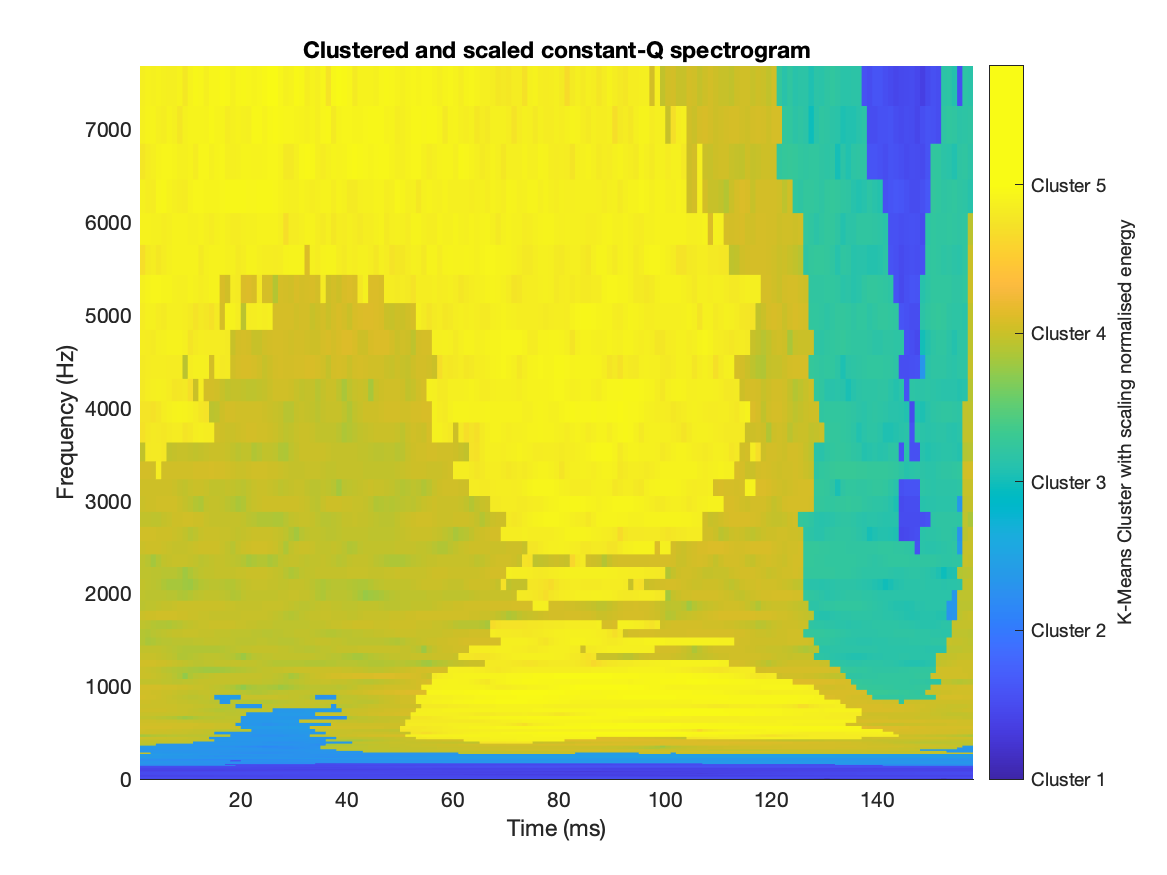
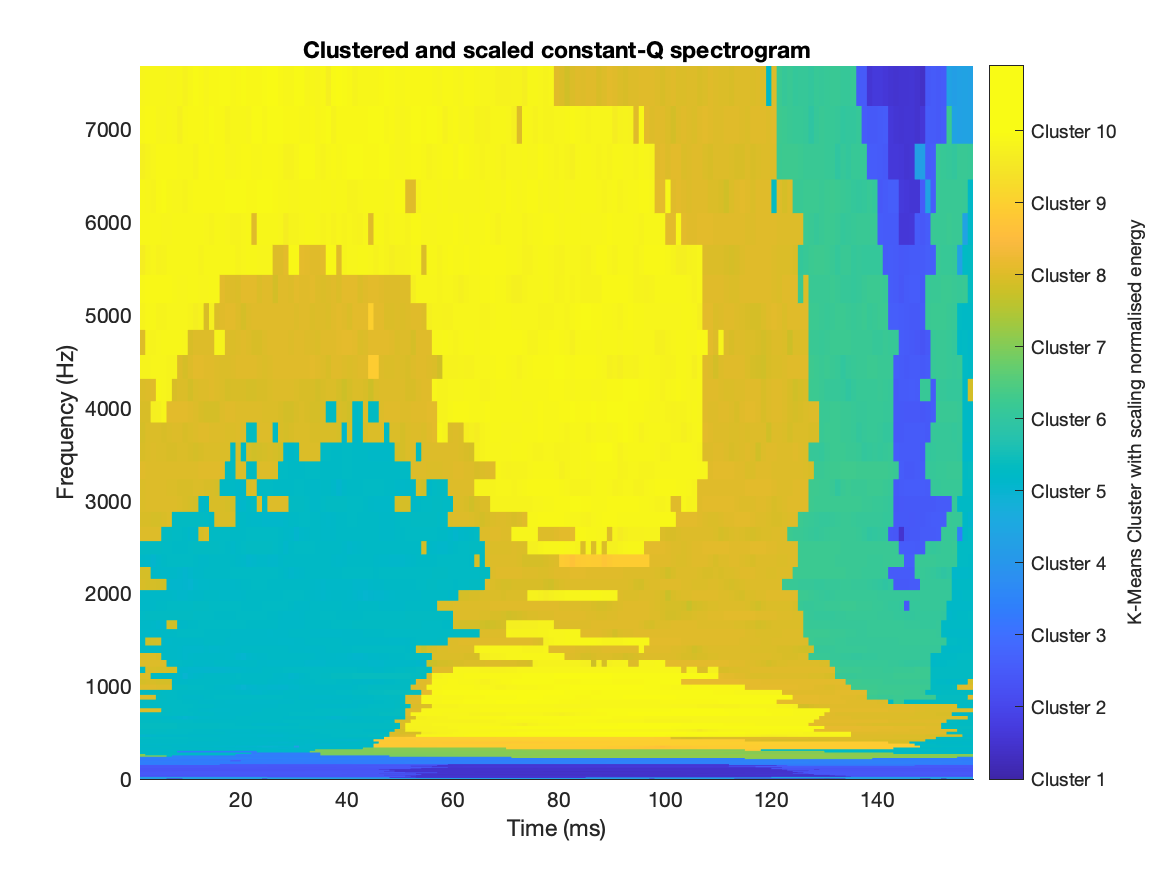
Better visuals for rationale

diff --git a/rationale-TIMIT_CQTs/matlab/group_CQT.m b/rationale-TIMIT_CQTs/matlab/group_CQT.m
@@ -71,7 +71,7 @@ title("Mean constant-Q spectrogram");
 saveas(gcf, strcat(out, "group_mean.png"));
 
 %% k-means
-X_k_clusters = 5;
+X_k_clusters = 10;
 X_k_m = reshape(X, [size(X, 1) * size(X, 2), size(X, 3)]);
 X_k_m = log(abs(X_k_m) .^ 2);
 [X_k_idx, X_k_C] = kmeans(X_k_m, X_k_clusters, 'MaxIter', 1000);
@@ -162,3 +162,62 @@ end
 for i = 1:size(X_k_cluster_spectral, 1)
     [X_k_cluster_m_ttest_h(i), X_k_cluster_m_ttest_p(i), X_k_cluster_m_ttest_ci(i,:), X_k_cluster_m_ttest_stats(i,:)] = ttest(X_k_cluster_spectral_m(i, :), 0, 'Alpha', (0.05 / size(X_k_cluster_spectral, 1)));
 end
+
+%% time plots
+da = X_k_cluster_spectral_m(:, 1:3);
+%das(:, 1) = da(:, 1);
+%das(:, 2) = da(:, 2);
+%das(:, 3) = da(:, 3);
+das(:, 1) = da(randperm(size(da, 1)), 1);
+das(:, 2) = da(randperm(size(da, 1)), 2);
+das(:, 3) = da(randperm(size(da, 1)), 3);
+
+figure; hold on;
+c = polyfit([1:size(das, 1)]', das(:, 1), 9);
+y_est = polyval(c, 1:size(das, 1));
+e1 = (sum((y_est' - das(:, 1)) .^ 2) + sum((y_est' - das(:, 2)) .^ 2) + sum((y_est' - das(:, 3)) .^ 2)) ./ size(das, 1);
+e1t = (((y_est' - das(:, 1)) .^ 2) + ((y_est' - das(:, 2)) .^ 2) + ((y_est' - das(:, 3)) .^ 2)) ./ size(das, 1);
+%plot(1:size(das, 1), y_est, 'black-');
+errorbar(1:size(das, 1), y_est, e1t);
+plot(1:size(das, 1), das(:, 1), 'r*');
+plot(1:size(das, 1), das(:, 2), 'b*');
+plot(1:size(das, 1), das(:, 3), 'm*');
+xlabel("Time-frequency clusters");
+ylabel("Spectral energy");
+legend("Regression fit", "Speaker_1", "Speaker_2 (novel)", "Speaker_3 (novel)");
+title("Overfit model (\epsilon = " + string(e1) + ")");
+axis([1 10 -40 -5]);
+
+
+figure; hold on;
+c2 = polyfit([1:size(das, 1)]', das(:, 1), 1);
+y_est2 = polyval(c2, 1:size(das, 1));
+e2 = (sum((y_est2' - das(:, 1)) .^ 2) + sum((y_est2' - das(:, 2)) .^ 2) + sum((y_est2' - das(:, 3)) .^ 2)) ./ size(das, 1);
+e2t = (((y_est2' - das(:, 1)) .^ 2) + ((y_est2' - das(:, 2)) .^ 2) + ((y_est2' - das(:, 3)) .^ 2)) ./ size(das, 1);
+%plot(1:size(das, 1), y_est2, 'black-');
+errorbar(1:size(das, 1), y_est2, e2t);
+plot(1:size(das, 1), das(:, 1), 'r*');
+plot(1:size(das, 1), das(:, 2), 'b*');
+plot(1:size(das, 1), das(:, 3), 'm*');
+xlabel("Time-frequency clusters");
+ylabel("Spectral energy");
+legend("Regression fit", "Speaker_1", "Speaker_2 (novel)", "Speaker_3 (novel)");
+title("Simple model (\epsilon = " + string(e2) + ")");
+axis([1 10 -40 -5]);
+
+figure; hold on;
+b = (1:size(das, 1))' ./ (1:size(das, 1))';
+betas = b \ das(:, 1);
+y_est3 = (b * betas)';
+e3i = das(:, 1) - y_est3';
+e3 = (sum((y_est3' - das(:, 1)) .^ 2) + sum((y_est3' - das(:, 2)) .^ 2) + sum((y_est3' - das(:, 3)) .^ 2)) ./ size(das, 1);
+e3t = (((y_est3' - das(:, 1)) .^ 2) + ((y_est3' - das(:, 2)) .^ 2) + ((y_est3' - das(:, 3)) .^ 2)) ./ size(das, 1);
+errorbar(1:size(das, 1), y_est3, e3t);
+plot(1:size(das, 1), das(:, 1), 'r*');
+plot(1:size(das, 1), das(:, 2), 'b*');
+plot(1:size(das, 1), das(:, 3), 'm*');
+xlabel("Time-frequency clusters");
+ylabel("Spectral energy");
+legend("Regression fit", "Speaker_1", "Speaker_2 (novel)", "Speaker_3 (novel)");
+title("Simple GLM (\epsilon = " + string(e3) + ")");
+axis([1 10 -40 -5]);

diff --git a/rationale-TIMIT_CQTs/matlab/group_CQT_comprehensive.m b/rationale-TIMIT_CQTs/matlab/group_CQT_comprehensive.m
@@ -8,6 +8,7 @@ clearvars; close all;
 %% settings
 targets = "/users/fabianschneider/desktop/university/master/dissertation/proposal/code/rationale-TIMIT_CQTs/data/converted/"; % the folder with all our converted data we want to include in the TFR
 out = "/users/fabianschneider/desktop/university/master/dissertation/proposal/code/rationale-TIMIT_CQTs/matlab/export/";
+individuals = "individuals/";
 screen_x = 2560;
 screen_y = 1600;
 
@@ -50,6 +51,14 @@ X = zeros(dimensions_mn(1), dimensions_mn(2), size(M, 2));
 
 for i = 1:size(M, 2)
     X(:,:,i) = cqt(M(:,i), 'SamplingFrequency', Fs);
+    
+    figure;
+    cqt(M(:,i), 'SamplingFrequency', Fs);
+    axis([0 size(test_cqt, 2) 0 8]);
+    caxis([-140 -40]);
+    title("Constant-Q transform for speaker_{" + string(i) + "}");
+    out_this = strcat(strcat(out, individuals), "spkr" + string(i) + ".png");
+    saveas(gcf, out_this);
 end
 
 X_m = abs(mean(X, 3));
